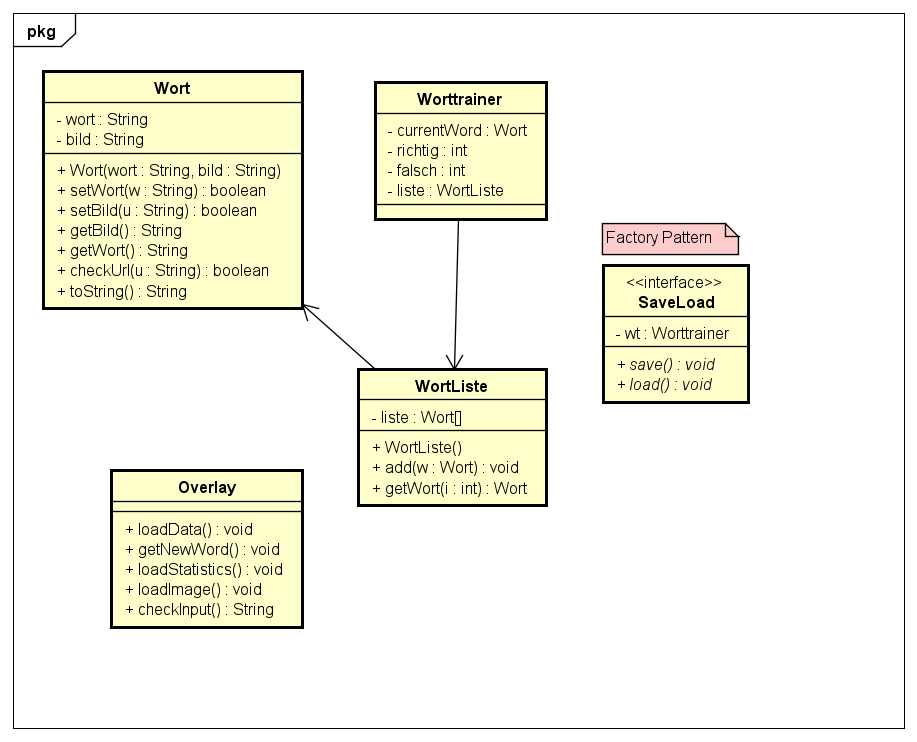
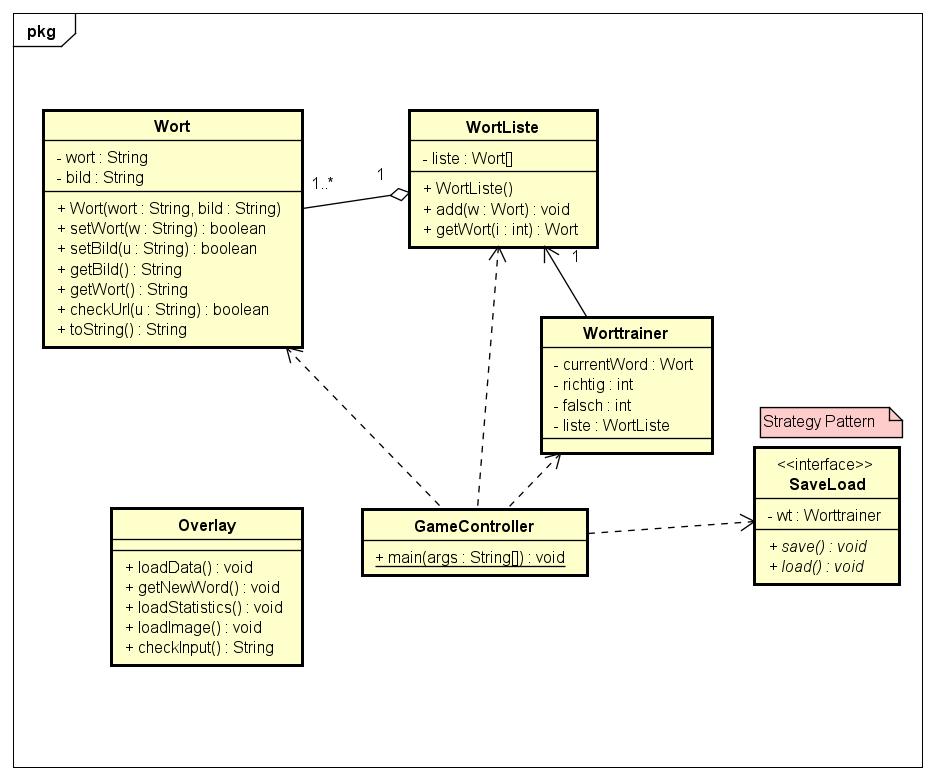
Klasse welche einen Worteintrag represaesentiert implementiert

diff --git a/src/main/java/at/bprinc/Wort.java b/src/main/java/at/bprinc/Wort.java
@@ -1,0 +1,38 @@
+package at.bprinc;
+
+public class Wort {
+    private String wort;
+    private String url;
+
+    public Wort(String wort, String url) {}
+
+    public void setWort(String w) {
+        wort = w;
+    }
+
+    public void setUrl(String u) {
+        url = u;
+    }
+
+    public String getWort() {
+        return wort;
+    }
+
+    public String getUrl() {
+        return url;
+    }
+
+    public boolean checkWort(String w) {
+        return w.length()>2;
+    }
+
+    public boolean checkUrl(String u) {
+        // TODO implement regex check
+        return u.length()>8;
+    }
+
+    @Override
+    public String toString() {
+        return "Wort=" + wort + ", url=" + url;
+    }
+}

diff --git a/src/main/java/at/bprinc/GameController.java b/src/main/java/at/bprinc/GameController.java
@@ -1,6 +1,6 @@
 package at.bprinc;
 
-public class Main {
+public class GameController {
     public static void main(String[] args) {
         System.out.println("Hello world!");
     }

diff --git a/README.md b/README.md
@@ -1,0 +1,9 @@
+# WorttrainerReloaded
+**Autor**: Benjamin Princ
+
+**Datum**: 18.09.2024
+
+## Einleitung
+Ziel ist es den Worttrainer mit dem jetzigen Wissen neu umzusetzen und mit JOptionPane
+eine grafische Oberfläche zu realisieren.
+
